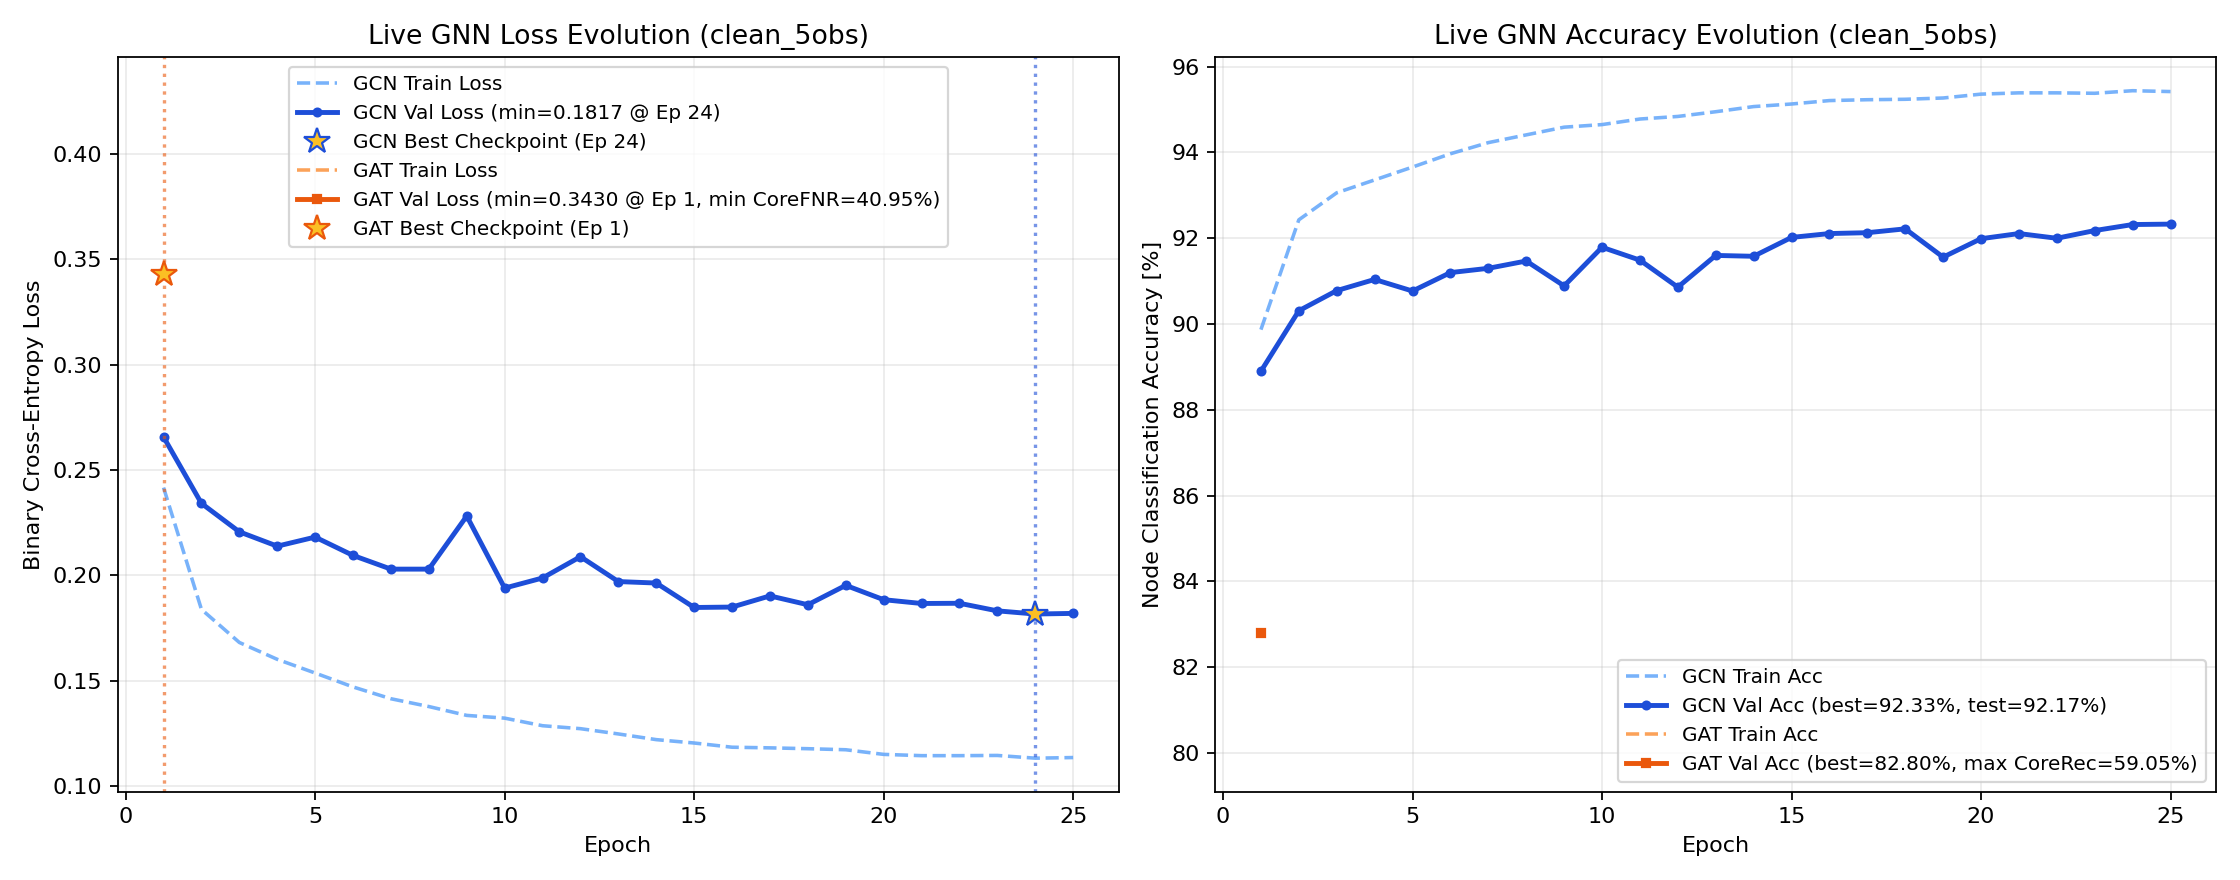
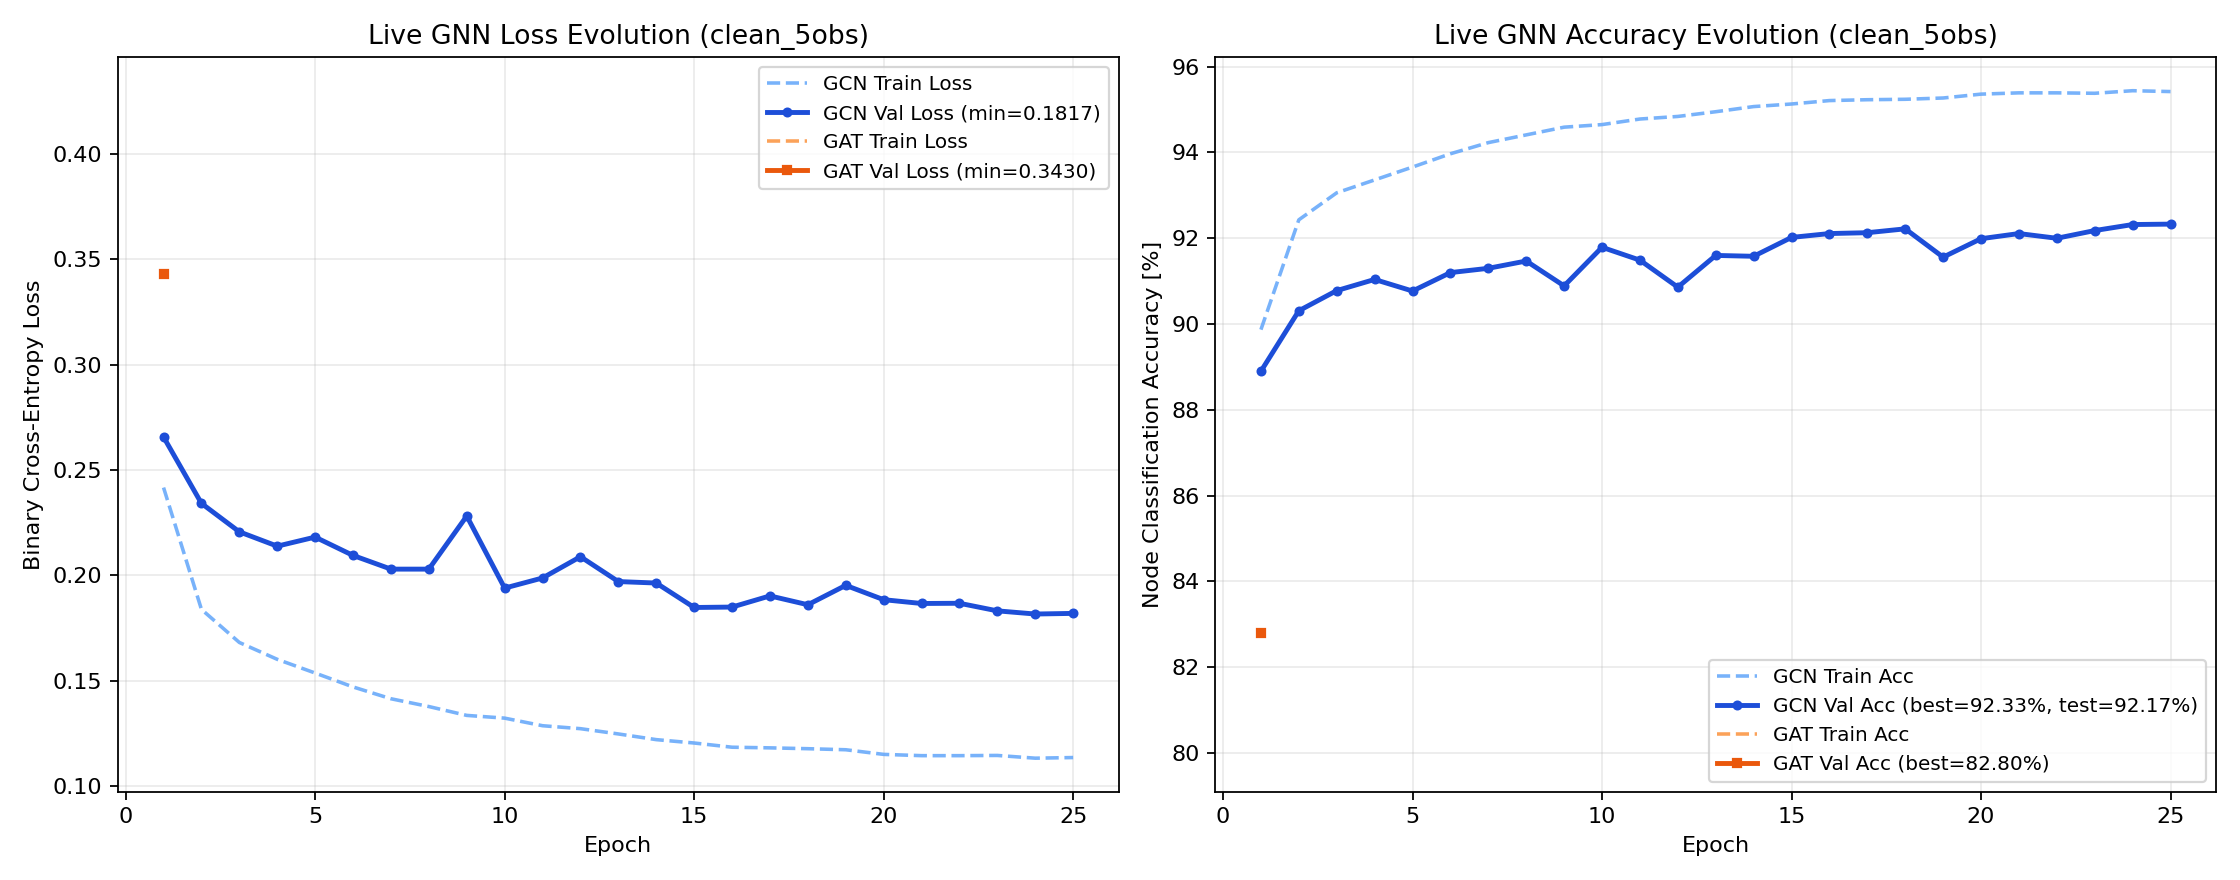
Update Study 2 live status and figures (2026-11-12 15:43)

diff --git a/LIVE_STATUS.md b/LIVE_STATUS.md
@@ -1,44 +1,30 @@
 # Live Pipeline Status on Jed
 
 ```text
-[2026-11-12 15:37:56] Study 2 Pipeline Status on Jed
+[2026-11-12 15:43:27] Study 2 Pipeline Status on Jed
 - Step 1 (Plummer ICs): 81 / 81 ready
 - Step 2 (SWIFT Runs): 81 / 81 completed (101 snapshots)
 - Step 3 (Observables): Labels=81/81 | Clean=81/81 | GaiaNoisy=81/81
 - Step 4 (5D Graphs): Clean=81/81 | GaiaNoisy=81/81
 - Step 5/6 Live GNN Training Progress:
-  * clean_5obs/training_metrics_gat_clean.log: Ep 001 | Train 0.4300 (79.88%) | Val 0.3430 (82.80%, Best=82.80%) | CoreFNR: 40.95% (min=40.95%) | Test=In progress
+  * clean_5obs/training_metrics_gat_clean.log: Ep 001 | Train 0.4300 (79.88%) | Val 0.3430 (82.80%, Best=82.80%) | Test=In progress
   * clean_5obs/training_metrics_gcn_clean.log: Ep 025 | Train 0.1136 (95.42%) | Val 0.1820 (92.33%, Best=92.33%) | Test=92.17%
   * legacy/clean_5obs_static_5rot/training_metrics_gcn_clean.log: Ep 025 | Train 0.1136 (95.42%) | Val 0.1820 (92.33%, Best=92.33%) | Test=92.17%
-- Saved Model Checkpoints (.pth): 8 mirrored in GNN-jed/trained_models/study2/weights/
 
 SLURM Queue:
 JOBID  PARTITION                   NAME   ST       TIME  NODES NODELIST(REASON)
       41146836   academic Study2_Step7_GCNStocha   PD       0:00      2 (Dependency)
 41146835_[0-4%   academic      Study2_Step6_4Obs   PD       0:00      2 (Dependency)
-      41146834   academic   Study2_Step5_Train81    R      53:22      2 jst[317,320]
+      41146834   academic   Study2_Step5_Train81    R      54:11      2 jst[317,320]
 ```
 
 ## Live Neural Network Training Metrics
 
-| Experiment | Architecture | Latest Epoch | Train Loss | Train Acc | Val Loss | Val Acc | Best Val Acc | Core FNR | Test Acc | Test F1 |
-| :--- | :---: | :---: | :---: | :---: | :---: | :---: | :---: | :---: | :---: | :---: |
-| `clean_5obs` | **GAT** | 1 | 0.4300 | 79.88% | 0.3430 | 82.80% | **82.80%** | 40.95% (val min) | **In progress** | - |
-| `clean_5obs` | **GCN** | 25 | 0.1136 | 95.42% | 0.1820 | 92.33% | **92.33%** | - | **92.17%** | 0.8886 |
-| `clean_5obs_static_5rot` | **GCN** | 25 | 0.1136 | 95.42% | 0.1820 | 92.33% | **92.33%** | - | **92.17%** | 0.8886 |
-
-## Saved Model Weights (`.pth` Checkpoints)
-
-| Checkpoint | Size | Experiment Path | Central Archive Mirror |
-| :--- | :---: | :--- | :--- |
-| `best_gat_clean.pth` | 361.2 KB | `GNN-jed/trained_models/study2/clean_5obs/best_gat_clean.pth` | `GNN-jed/trained_models/study2/weights/best_gat_clean.pth` |
-| `best_gat_clean_ep18_backup.pth` | 361.2 KB | `GNN-jed/trained_models/study2/clean_5obs/best_gat_clean_ep18_backup.pth` | `GNN-jed/trained_models/study2/weights/best_gat_clean_ep18_backup.pth` |
-| `best_gcn_clean.pth` | 120.0 KB | `GNN-jed/trained_models/study2/clean_5obs/best_gcn_clean.pth` | `GNN-jed/trained_models/study2/weights/best_gcn_clean.pth` |
-| `best_gat_clean_ep18_backup.pth` | 361.2 KB | `GNN-jed/trained_models/study2/legacy/clean_5obs_static_5rot/best_gat_clean_ep18_backup.pth` | `GNN-jed/trained_models/study2/weights/best_gat_clean_ep18_backup.pth` |
-| `best_gcn_clean.pth` | 120.0 KB | `GNN-jed/trained_models/study2/legacy/clean_5obs_static_5rot/best_gcn_clean.pth` | `GNN-jed/trained_models/study2/weights/best_gcn_clean.pth` |
-| `best_gat_clean.pth` | 361.2 KB | `GNN-jed/trained_models/study2/legacy/weights/best_gat_clean.pth` | `GNN-jed/trained_models/study2/weights/best_gat_clean.pth` |
-| `best_gat_clean_ep18_backup.pth` | 361.2 KB | `GNN-jed/trained_models/study2/legacy/weights/best_gat_clean_ep18_backup.pth` | `GNN-jed/trained_models/study2/weights/best_gat_clean_ep18_backup.pth` |
-| `best_gcn_clean.pth` | 120.0 KB | `GNN-jed/trained_models/study2/legacy/weights/best_gcn_clean.pth` | `GNN-jed/trained_models/study2/weights/best_gcn_clean.pth` |
+| Experiment | Architecture | Latest Epoch | Train Loss | Train Acc | Val Loss | Val Acc | Best Val Acc | Test Acc | Test F1 |
+| :--- | :---: | :---: | :---: | :---: | :---: | :---: | :---: | :---: | :---: |
+| `clean_5obs` | **GAT** | 1 | 0.4300 | 79.88% | 0.3430 | 82.80% | **82.80%** | **In progress** | - |
+| `clean_5obs` | **GCN** | 25 | 0.1136 | 95.42% | 0.1820 | 92.33% | **92.33%** | **92.17%** | 0.8886 |
+| `clean_5obs_static_5rot` | **GCN** | 25 | 0.1136 | 95.42% | 0.1820 | 92.33% | **92.33%** | **92.17%** | 0.8886 |
 
 ## Real-Time GNN Learning Curves (Loss & Accuracy Evolution)
 
